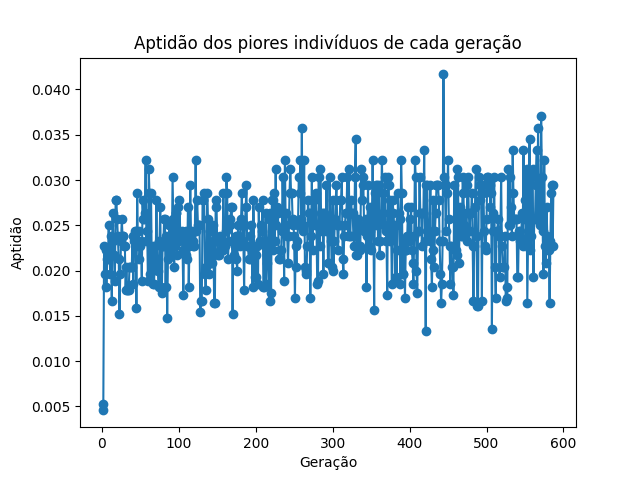
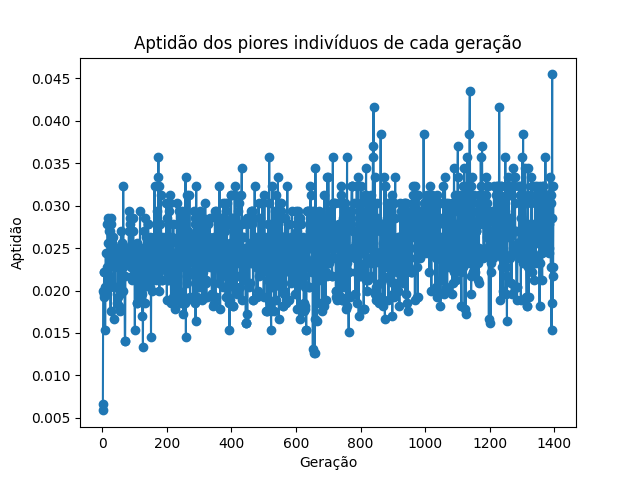
Running sample 10.

diff --git a/database/unified_database.py b/database/unified_database.py
@@ -304,70 +304,70 @@ class UnifiedDatabase:
             Availability(teacher_id=self.teachers[1].id, day_of_week=3, teacher=self.teachers[1]),
             Availability(teacher_id=self.teachers[1].id, day_of_week=4, teacher=self.teachers[1]),
 
-            Availability(teacher_id=self.teachers[2].id, day_of_week=1, teacher=self.teachers[2]),
+            Availability(teacher_id=self.teachers[2].id, day_of_week=0, teacher=self.teachers[2]),
+            Availability(teacher_id=self.teachers[2].id, day_of_week=2, teacher=self.teachers[2]),
             Availability(teacher_id=self.teachers[2].id, day_of_week=3, teacher=self.teachers[2]),
-            Availability(teacher_id=self.teachers[2].id, day_of_week=4, teacher=self.teachers[2]),
 
-            Availability(teacher_id=self.teachers[3].id, day_of_week=1, teacher=self.teachers[3]),
             Availability(teacher_id=self.teachers[3].id, day_of_week=2, teacher=self.teachers[3]),
+            Availability(teacher_id=self.teachers[3].id, day_of_week=3, teacher=self.teachers[3]),
             Availability(teacher_id=self.teachers[3].id, day_of_week=4, teacher=self.teachers[3]),
 
             Availability(teacher_id=self.teachers[16].id, day_of_week=0, teacher=self.teachers[16]),
-            Availability(teacher_id=self.teachers[16].id, day_of_week=3, teacher=self.teachers[16]),
+            Availability(teacher_id=self.teachers[16].id, day_of_week=1, teacher=self.teachers[16]),
             Availability(teacher_id=self.teachers[16].id, day_of_week=4, teacher=self.teachers[16]),
 
+            Availability(teacher_id=self.teachers[8].id, day_of_week=0, teacher=self.teachers[8]),
             Availability(teacher_id=self.teachers[8].id, day_of_week=1, teacher=self.teachers[8]),
-            Availability(teacher_id=self.teachers[8].id, day_of_week=2, teacher=self.teachers[8]),
             Availability(teacher_id=self.teachers[8].id, day_of_week=3, teacher=self.teachers[8]),
             Availability(teacher_id=self.teachers[8].id, day_of_week=4, teacher=self.teachers[8]),
 
-            Availability(teacher_id=self.teachers[0].id, day_of_week=0, teacher=self.teachers[0]),
-            Availability(teacher_id=self.teachers[0].id, day_of_week=3, teacher=self.teachers[0]),
+            Availability(teacher_id=self.teachers[0].id, day_of_week=1, teacher=self.teachers[0]),
+            Availability(teacher_id=self.teachers[0].id, day_of_week=2, teacher=self.teachers[0]),
             Availability(teacher_id=self.teachers[0].id, day_of_week=4, teacher=self.teachers[0]),
 
             Availability(teacher_id=self.teachers[5].id, day_of_week=0, teacher=self.teachers[5]),
             Availability(teacher_id=self.teachers[5].id, day_of_week=2, teacher=self.teachers[5]),
-            Availability(teacher_id=self.teachers[5].id, day_of_week=4, teacher=self.teachers[5]),
+            Availability(teacher_id=self.teachers[5].id, day_of_week=3, teacher=self.teachers[5]),
 
-            Availability(teacher_id=self.teachers[9].id, day_of_week=1, teacher=self.teachers[9]),
+            Availability(teacher_id=self.teachers[9].id, day_of_week=0, teacher=self.teachers[9]),
             Availability(teacher_id=self.teachers[9].id, day_of_week=2, teacher=self.teachers[9]),
             Availability(teacher_id=self.teachers[9].id, day_of_week=3, teacher=self.teachers[9]),
             Availability(teacher_id=self.teachers[9].id, day_of_week=4, teacher=self.teachers[9]),
 
-            Availability(teacher_id=self.teachers[12].id, day_of_week=0, teacher=self.teachers[12]),
+            Availability(teacher_id=self.teachers[12].id, day_of_week=2, teacher=self.teachers[12]),
             Availability(teacher_id=self.teachers[12].id, day_of_week=3, teacher=self.teachers[12]),
             Availability(teacher_id=self.teachers[12].id, day_of_week=4, teacher=self.teachers[12]),
 
-            Availability(teacher_id=self.teachers[13].id, day_of_week=2, teacher=self.teachers[13]),
+            Availability(teacher_id=self.teachers[13].id, day_of_week=1, teacher=self.teachers[13]),
             Availability(teacher_id=self.teachers[13].id, day_of_week=3, teacher=self.teachers[13]),
             Availability(teacher_id=self.teachers[13].id, day_of_week=4, teacher=self.teachers[13]),
 
             Availability(teacher_id=self.teachers[7].id, day_of_week=0, teacher=self.teachers[7]),
-            Availability(teacher_id=self.teachers[7].id, day_of_week=2, teacher=self.teachers[7]),
-            Availability(teacher_id=self.teachers[7].id, day_of_week=3, teacher=self.teachers[7]),
+            Availability(teacher_id=self.teachers[7].id, day_of_week=1, teacher=self.teachers[7]),
+            Availability(teacher_id=self.teachers[7].id, day_of_week=4, teacher=self.teachers[7]),
 
             Availability(teacher_id=self.teachers[14].id, day_of_week=0, teacher=self.teachers[14]),
-            Availability(teacher_id=self.teachers[14].id, day_of_week=2, teacher=self.teachers[14]),
+            Availability(teacher_id=self.teachers[14].id, day_of_week=3, teacher=self.teachers[14]),
             Availability(teacher_id=self.teachers[14].id, day_of_week=4, teacher=self.teachers[14]),
 
+            Availability(teacher_id=self.teachers[19].id, day_of_week=0, teacher=self.teachers[19]),
             Availability(teacher_id=self.teachers[19].id, day_of_week=1, teacher=self.teachers[19]),
-            Availability(teacher_id=self.teachers[19].id, day_of_week=3, teacher=self.teachers[19]),
-            Availability(teacher_id=self.teachers[19].id, day_of_week=4, teacher=self.teachers[19]),
+            Availability(teacher_id=self.teachers[19].id, day_of_week=2, teacher=self.teachers[19]),
 
             Availability(teacher_id=self.teachers[21].id, day_of_week=1, teacher=self.teachers[21]),
-            Availability(teacher_id=self.teachers[21].id, day_of_week=2, teacher=self.teachers[21]),
+            Availability(teacher_id=self.teachers[21].id, day_of_week=3, teacher=self.teachers[21]),
             Availability(teacher_id=self.teachers[21].id, day_of_week=4, teacher=self.teachers[21]),
 
             Availability(teacher_id=self.teachers[17].id, day_of_week=0, teacher=self.teachers[17]),
-            Availability(teacher_id=self.teachers[17].id, day_of_week=1, teacher=self.teachers[17]),
             Availability(teacher_id=self.teachers[17].id, day_of_week=3, teacher=self.teachers[17]),
+            Availability(teacher_id=self.teachers[17].id, day_of_week=4, teacher=self.teachers[17]),
 
-            Availability(teacher_id=self.teachers[15].id, day_of_week=0, teacher=self.teachers[15]),
+            Availability(teacher_id=self.teachers[15].id, day_of_week=1, teacher=self.teachers[15]),
             Availability(teacher_id=self.teachers[15].id, day_of_week=2, teacher=self.teachers[15]),
-            Availability(teacher_id=self.teachers[15].id, day_of_week=4, teacher=self.teachers[15]),
+            Availability(teacher_id=self.teachers[15].id, day_of_week=3, teacher=self.teachers[15]),
 
-            Availability(teacher_id=self.teachers[18].id, day_of_week=1, teacher=self.teachers[18]),
             Availability(teacher_id=self.teachers[18].id, day_of_week=2, teacher=self.teachers[18]),
+            Availability(teacher_id=self.teachers[18].id, day_of_week=3, teacher=self.teachers[18]),
             Availability(teacher_id=self.teachers[18].id, day_of_week=4, teacher=self.teachers[18]),
         ]
 

diff --git a/settings.py b/settings.py
@@ -2,7 +2,7 @@ from sqlalchemy.ext.declarative import declarative_base
 
 
 SQLALCHEMY_URI = "mysql://root:password@localhost:3306/timetable?charset=utf8"
-SAMPLE_NAME = "amostra_9"
+SAMPLE_NAME = "amostra_10"
 POPULATION_SIZE = 100
 GENERATIONS_NUMBER = 2000
 TOTAL_PERIODS = 8
